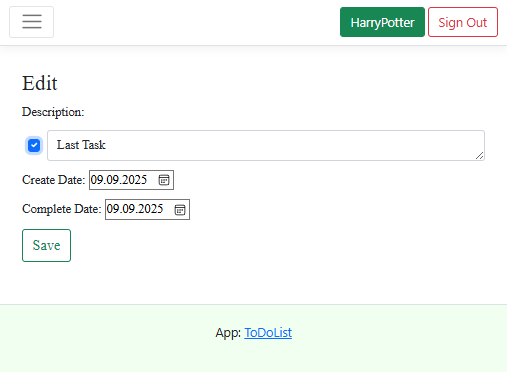
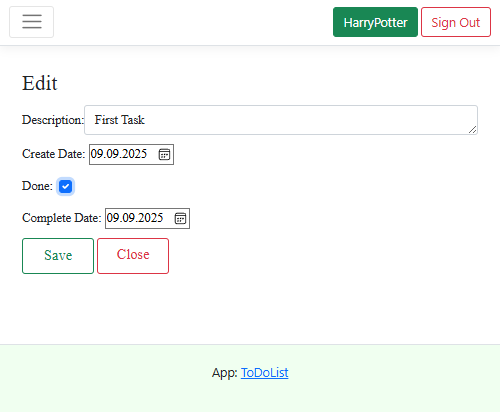
ToDoList.MVC - Change "Edit" page and add button "Close"
- Change "Edit" page;
- Add button "Close";
- Change png file ToDoItem.

diff --git a/ToDoListMVC/Controllers/ToDoListController.cs b/ToDoListMVC/Controllers/ToDoListController.cs
@@ -80,6 +80,9 @@ namespace ToDoListMVC.Controllers
             return View(NameViewToDoPage);
         }
 
+        [HttpGet]
+        public IActionResult Close() => RedirectToAction(NameViewToDoPage, NameToDoListController);
+
         [ResponseCache(Duration = 0, Location = ResponseCacheLocation.None, NoStore = true)]
         public IActionResult Error()
             => View(new ErrorViewModel { RequestId = Activity.Current?.Id ?? HttpContext.TraceIdentifier });
